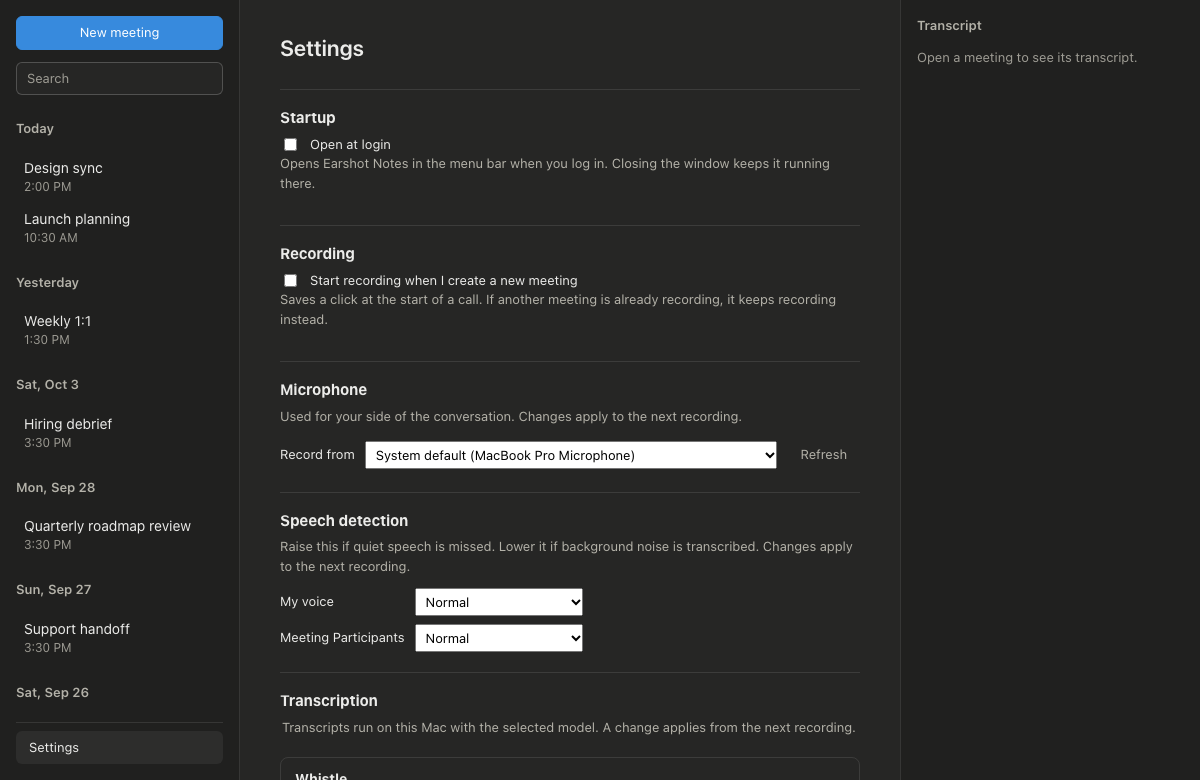
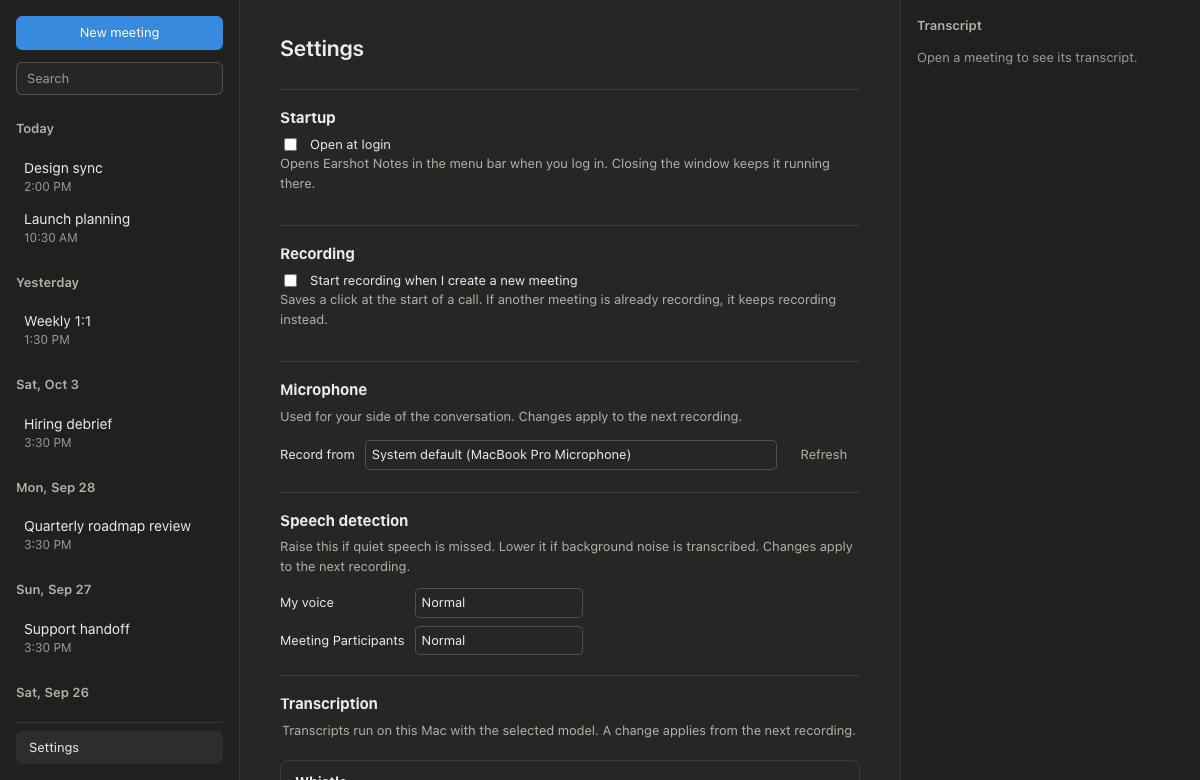
Draw selects without native arrows in screenshots
Moving the check to macOS 27 made text edges match exactly, but the select
arrows still differed: Chromium draws them differently even between macOS
27.0 (26A425) and the runner's 27.0.1 (26A434), so pinning the OS can't
keep them stable. A stylesheet applied only while Playwright takes the
screenshots (stylePath) draws selects as plain boxes without the arrow.
The app's selects are unchanged.

diff --git a/playwright.config.ts b/playwright.config.ts
@@ -14,13 +14,16 @@ export default defineConfig({
   expect: {
     toHaveScreenshot: {
       // Macs on different macOS versions draw text edges slightly differently
-      // (measured: up to 9 pixels per image between macOS 27 and macOS 26 at
-      // this threshold), and since Playwright 1.64 a select's arrow too, by
-      // about 34 pixels each, so CI checks on macOS 27, like the screenshots. A two-letter label change differs by 18 or more,
-      // and layout or clearly visible color changes by thousands. Changes
-      // smaller than that, such as a subtle shade of a color, can pass.
+      // (measured: up to 9 pixels per image between macOS 27 and CI's macOS 26
+      // at this threshold; CI now checks on macOS 27). A two-letter label
+      // change differs by 18 or more, and layout or clearly visible color
+      // changes by thousands. Changes smaller than that, such as a subtle shade
+      // of a color, can pass.
       threshold: 0.3,
       maxDiffPixels: 12,
+      // Native select arrows differ between macOS builds by about 34 pixels
+      // each, so the screenshots draw selects without them.
+      stylePath: "screenshots/screenshot.css",
     },
   },
   use: {

diff --git a/screenshots/screenshot.css b/screenshots/screenshot.css
@@ -1,0 +1,12 @@
+/* Applied only while Playwright takes the screenshots (stylePath in
+   playwright.config.ts), never in the app. Chromium draws a native select's
+   arrow differently on different macOS builds, by more than the check
+   tolerates, so the screenshots show selects as plain boxes without it. */
+select {
+  appearance: none;
+  border: 1px solid var(--border-strong);
+  border-radius: 5px;
+  padding: 2px 8px;
+  background: var(--surface-2);
+  color: inherit;
+}

diff --git a/AGENTS.md b/AGENTS.md
@@ -42,7 +42,7 @@ Run all commands from the repository root unless noted.
 
 Before you hand off work, run the lint, typecheck, test, format, and screenshot check commands. All of them must pass.
 
-**Screenshots after every UI change:** whenever a change can alter what the app draws, run `npm run screenshots` and commit the updated images in the same change. That includes components, CSS, UI text, the preview scenes in `src/preview/`, and updates to Playwright, which bring a new Chromium, even in a Dependabot pull request. Render them only on macOS 27, the version CI checks them on (see **Continuous integration**): other macOS versions draw text edges and form controls, such as a select's arrow, differently by more than the check tolerates. Run `npm run screenshots:check` before you start, as part of your baseline, so a mismatch already on `main` isn't mistaken for yours.
+**Screenshots after every UI change:** whenever a change can alter what the app draws, run `npm run screenshots` and commit the updated images in the same change. That includes components, CSS, UI text, the preview scenes in `src/preview/`, and updates to Playwright, which bring a new Chromium, even in a Dependabot pull request. Render them on macOS 27, the version CI checks them on (see **Continuous integration**), so text edges match exactly. Run `npm run screenshots:check` before you start, as part of your baseline, so a mismatch already on `main` isn't mistaken for yours.
 
 ## Continuous integration
 
@@ -54,7 +54,7 @@ GitHub Actions runs these checks on pull requests to `main` and on pushes to `ma
 | `.github/workflows/screenshots.yml` | `xcode-27` (macOS 27, Apple Silicon) | `npm run screenshots:check`; on failure, uploads the rendered screenshots and their differences as the `screenshots` artifact |
 | `.github/workflows/rust.yml` | `macos-26` (Apple Silicon) | `./scripts/fetch-native.sh`, then `cargo fmt --check`, clippy, and `cargo test --workspace` (summary tests on the CPU, see **Summary tests**) |
 
-The screenshots workflow runs on macOS because the UI uses the system font, and only when the UI, the preview, the screenshots, or the npm dependencies change. It runs on macOS 27, the version the committed screenshots are rendered on, because Chromium draws native controls differently on macOS 26. GitHub names that image `xcode-27` (there is no `macos-27` label), and it's in public preview; when it becomes generally available or a newer macOS replaces it, move the label and regenerate the screenshots on the new version together. The Rust workflow needs macOS 26 on Apple Silicon, because the prebuilt needle engine supports nothing else. It takes several minutes, so it runs only when `src-tauri/`, `scripts/fetch-native.sh`, `scripts/build-whisper.sh`, or the workflow itself changes. It caches the fetched native files and the whisper.cpp library (keyed on `fetch-native.sh`, `build-whisper.sh`, and the whisper.cpp interface in `src-tauri/crates/whisper-sys/native/`; checksums are still verified) and the cargo build (keyed on the repository name, the Rust version, and `Cargo.lock`; the build records absolute paths, which include the checkout folder named after the repository). A newer run on the same pull request cancels the older one. To rerun a failed job, use **Re-run failed jobs** on the run's page, or `gh run rerun <run id> --failed`. Workflows keep `permissions: contents: read` and pin each action to a full commit SHA, with its version in a comment.
+The screenshots workflow runs on macOS because the UI uses the system font, and only when the UI, the preview, the screenshots, or the npm dependencies change. It runs on macOS 27, the version the committed screenshots are rendered on, so text edges match exactly instead of within the tolerance. GitHub names that image `xcode-27` (there is no `macos-27` label), and it's in public preview; when it becomes generally available or a newer macOS replaces it, move the label and regenerate the screenshots on the new version together. The Rust workflow needs macOS 26 on Apple Silicon, because the prebuilt needle engine supports nothing else. It takes several minutes, so it runs only when `src-tauri/`, `scripts/fetch-native.sh`, `scripts/build-whisper.sh`, or the workflow itself changes. It caches the fetched native files and the whisper.cpp library (keyed on `fetch-native.sh`, `build-whisper.sh`, and the whisper.cpp interface in `src-tauri/crates/whisper-sys/native/`; checksums are still verified) and the cargo build (keyed on the repository name, the Rust version, and `Cargo.lock`; the build records absolute paths, which include the checkout folder named after the repository). A newer run on the same pull request cancels the older one. To rerun a failed job, use **Re-run failed jobs** on the run's page, or `gh run rerun <run id> --failed`. Workflows keep `permissions: contents: read` and pin each action to a full commit SHA, with its version in a comment.
 
 Two more jobs keep the pins current (see **Updating pinned versions**). `.github/workflows/upstream.yml` runs `scripts/upstream/check.ts` every Monday, or from **Run workflow** on its page, and keeps one open issue, "Upstream updates available", current; it also has `issues: write`, for that issue only. Dependabot (`.github/dependabot.yml`) checks weekly and opens one grouped pull request each for Cargo, npm, and GitHub Actions minor and patch updates, and a separate pull request for each major update. The exception is `minijinja` and `minijinja-contrib`, whose major updates arrive together in one pull request, because neither compiles with the other's previous major version.
 
@@ -78,7 +78,7 @@ Two more jobs keep the pins current (see **Updating pinned versions**). `.github
 - **Logging:** Rust code logs with the `log` macros (`log::error!`, `log::warn!`, `log::info!`, `log::debug!`), never `eprintln!`. `tauri-plugin-log`, set up in `src-tauri/src/lib.rs`, writes to stderr and to `~/Library/Logs/com.tedpresley.earshot/Earshot Notes.log` (named after `productName`), keeping one file of at most 1 MB. Logs stay on the device: don't add network or webview targets, and don't log transcript, notes, or summary text.
 - **Network test:** `cargo test --lib -- --ignored resumes_from_hugging_face` checks a real ranged download from Hugging Face. It's ignored by default because it needs the network.
 - **Styling** uses the CSS custom properties in `src/styles.css`. Every color needs a dark mode value.
-- **Screenshots:** `docs/screenshots/` holds a light and a dark screenshot of each scene in `src/preview/scenes.ts`, so a pull request that changes the UI shows the change in its diff. They're generated, and committed on purpose, like `third-party-notices.txt`. `preview.html` renders the real `App` with `mockIPC` answered by the fake backend in `src/testing/fakeBackend.ts`, which `App.test.tsx` also uses; `vite build` bundles only `index.html`, so neither ships. `screenshots/scenes.spec.ts` opens each scene with Playwright at the app's default window size, a fixed clock, time zone, and locale, so unchanged UI renders identical images. Macs on different macOS versions draw text edges slightly differently, so the check tolerates a few pixels of edge shading per image (`playwright.config.ts` records the measurements); it still fails on a changed word, layout, or clearly visible color, but a very subtle change, such as a slightly different shade, can pass. `npm run screenshots` rewrites only images that differ beyond that tolerance. To add a scene, add it to `scenes.ts` and a test to `scenes.spec.ts`, then run `npm run screenshots`. Scenes use synthetic data only.
+- **Screenshots:** `docs/screenshots/` holds a light and a dark screenshot of each scene in `src/preview/scenes.ts`, so a pull request that changes the UI shows the change in its diff. They're generated, and committed on purpose, like `third-party-notices.txt`. `preview.html` renders the real `App` with `mockIPC` answered by the fake backend in `src/testing/fakeBackend.ts`, which `App.test.tsx` also uses; `vite build` bundles only `index.html`, so neither ships. `screenshots/scenes.spec.ts` opens each scene with Playwright at the app's default window size, a fixed clock, time zone, and locale, so unchanged UI renders identical images. Macs on different macOS versions draw text edges slightly differently, so the check tolerates a few pixels of edge shading per image (`playwright.config.ts` records the measurements); it still fails on a changed word, layout, or clearly visible color, but a very subtle change, such as a slightly different shade, can pass. Native control drawing changes even between builds of the same macOS (a select's arrow moved by two pixels between 27.0 and 27.0.1), so `screenshots/screenshot.css`, applied only while Playwright takes screenshots (`stylePath`), draws selects as plain boxes without the arrow. When a new control's native drawing makes the check fail on one Mac but not another, add it there rather than raising the tolerance. `npm run screenshots` rewrites only images that differ beyond that tolerance. To add a scene, add it to `scenes.ts` and a test to `scenes.spec.ts`, then run `npm run screenshots`. Scenes use synthetic data only.
 - **Summary tests:** `src-tauri/tests/summarize.rs` runs a tiny real model (SmolLM2 135M, fetched by `scripts/fetch-native.sh`) to test plumbing such as streaming, limits, and cancellation, not summary quality. Logic above the model is tested through the `Generator` trait with fakes. Set `EARSHOT_TEST_CPU=1` to run that model on the CPU (`llm::llama::Placement::Cpu`); CI does, because the hosted runner's virtual GPU makes these tests take minutes. The app always uses the GPU. Summary quality is measured, not tested: `src-tauri/examples/summary_eval.rs` runs the app's summary code with a real model over the synthetic meetings in `src-tauri/tests/fixtures/meetings/`, which plant specifics such as ticket numbers, error messages, corrected values, and conditional plans, and reports which survive. `--noisy` makes transcripts look like real speech recognition output, `--pad MINUTES` spreads them across a long meeting, `--terms` passes vocabulary terms, `--context` forces condensing, and `--sampling` compares settings. For a condensed meeting, it also counts the specifics left after condensing (`found_in_parts`), which shows whether condensing or the final pass lost them; `SHOW_PARTS=1` prints the condensed parts. Put model files for it in `src-tauri/tests/models/`, which git ignores. Run it before and after any change to the prompts in `summarize/prompt.rs` or to sampling, and record the results in the pull request. `npm run benchmark` (`scripts/benchmark/run.ts`) runs it for each model at three meeting lengths, each run in its own process, and measures peak memory as the maximum resident set size, which counts the memory-mapped weights; macOS's peak memory footprint doesn't. Results and their write-up go in `docs/benchmarks/`, and every model must stay within the 10 GB budget described there.
 - **Website:** earshotnotes.com is the static page in `site/` (#45): plain HTML and CSS, no build step, no framework, and no scripts, fonts, or requests to other domains. `netlify.toml` publishes `site/` on Netlify and sets the Content Security Policy that enforces this. Its copy follows the README; keep claims in step with the app, and keep the version in the page current with each release. `site/images/` is generated by `scripts/site-images.sh`; don't edit those files by hand.
 - **Model lifecycle:** `ModelWorker` (`llm/worker.rs`) runs one job at a time, a summary (`summarize::job`) or a chat question (`chat::job`), on its own thread and keeps the model in an `llm::resident::Resident` between jobs. The model loads on the first job, not at app start, and stays loaded for the `keep_model_loaded` setting's idle time (`KeepLoaded`: **Never**, **5 minutes** by default, **15 minutes**, or **Always**); the idle time starts over after each job and when the setting changes. A job for a different model frees the loaded one before loading, so two models never take memory at once. Each job copies the meeting's notes, transcript, and vocabulary when it's queued, so edits made while it runs apply to the next job; the window asks `active_summary` and `active_chat` which meeting is busy. Each `generate` call creates a fresh llama.cpp context sized to its prompt plus its output room, so short meetings use less memory than long ones. Selecting a model saves the choice before calling `ModelWorker::unload`, so the next job loads the new model; removing a model also calls `ModelWorker::unload`, and quitting calls `ModelWorker::shutdown`, which cancels a running summary and frees the model: ggml's Metal backend aborts the process at exit while a model is loaded.
